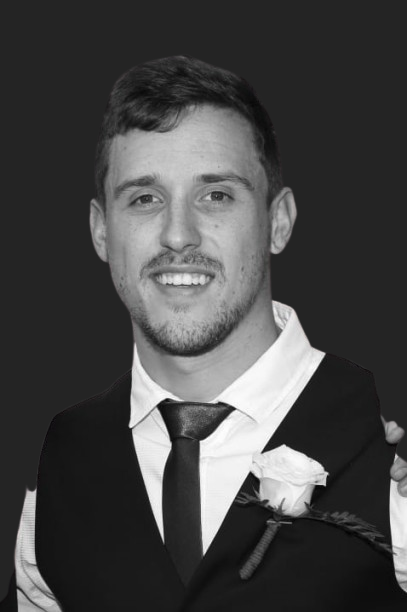
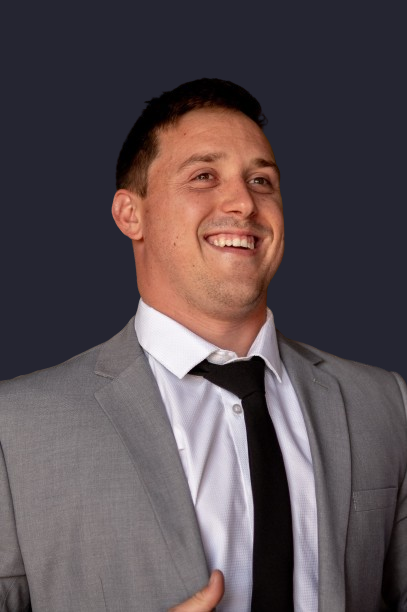
updates to profile

diff --git a/index.html b/index.html
@@ -41,7 +41,7 @@
                 <div class="left">
                     <h2>Nice to meet you!</h2><br>
                     <h2>I'm <span class="underline">Charl Roux</span></h2>
-                    <p>Based in the SA, I'm a front-end developer passionate about building accessible web apps that users love.</p>
+                    <p>Based in the Michigan USA, I'm a front-end developer passionate about building accessible web apps that users love.</p>
                     <button class="hero" onClick="document.getElementById('contact').scrollIntoView()">
                         CONTACT ME
                     </button>
@@ -49,7 +49,7 @@
                 <div class="right">
                     <img class="oval" src="./assets/oval.svg">
                     <div class="spacer"></div>
-                    <img src="./assets/bg-rm.png" alt="">
+                    <img class="self" src="./assets/bg-rm.png" alt="">
                 </div>
          
         </section>
@@ -58,15 +58,15 @@
             <div class="entries">
                 <div class="entry">
                     <h3>HTML</h3>
-                    <p>6 Years Experience</p>
+                    <p>7 Years Experience</p>
                 </div>
                 <div class="entry">
                     <h3>CSS</h3>
-                    <p>6 Years Experience</p>
+                    <p>7 Years Experience</p>
                 </div>
                 <div class="entry">
                     <h3>Javascript</h3>
-                    <p>6 Years Experience</p>
+                    <p>7 Years Experience</p>
                 </div>
                 <div class="entry">
                     <h3>Typescript</h3>
@@ -74,7 +74,7 @@
                 </div>
                 <div class="entry">
                     <h3>Angular</h3>
-                    <p>5 Years Experience</p>
+                    <p>6 Years Experience</p>
                 </div>
             </div>
         </section>

diff --git a/style.css b/style.css
@@ -74,6 +74,7 @@ main section.hero .right .spacer {
 main section.hero .right img.oval {
     position: absolute;
     width: 129px !important;
+    z-index: 2;
     bottom: 154px;
     left: -67px;
 }
@@ -512,4 +513,8 @@ main section.contact.container-bottom .flex .left p {
     margin: 0 0%;
     padding: 0 7%;
 }
+}
+.self {
+    filter: grayscale(100%);
+    z-index: 1;
 }
